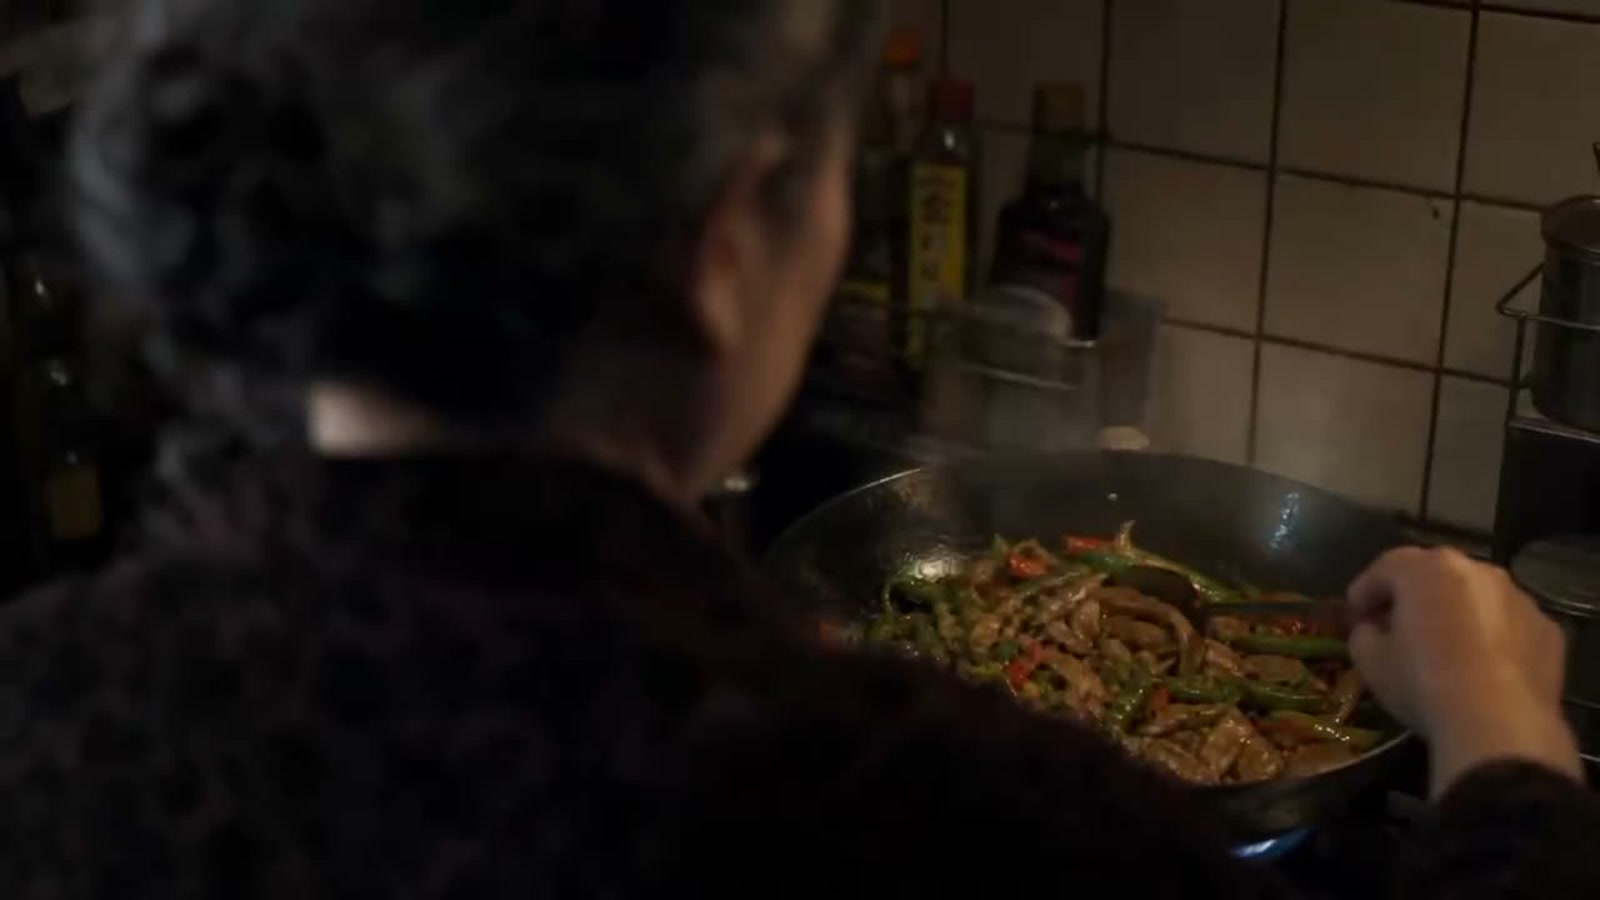
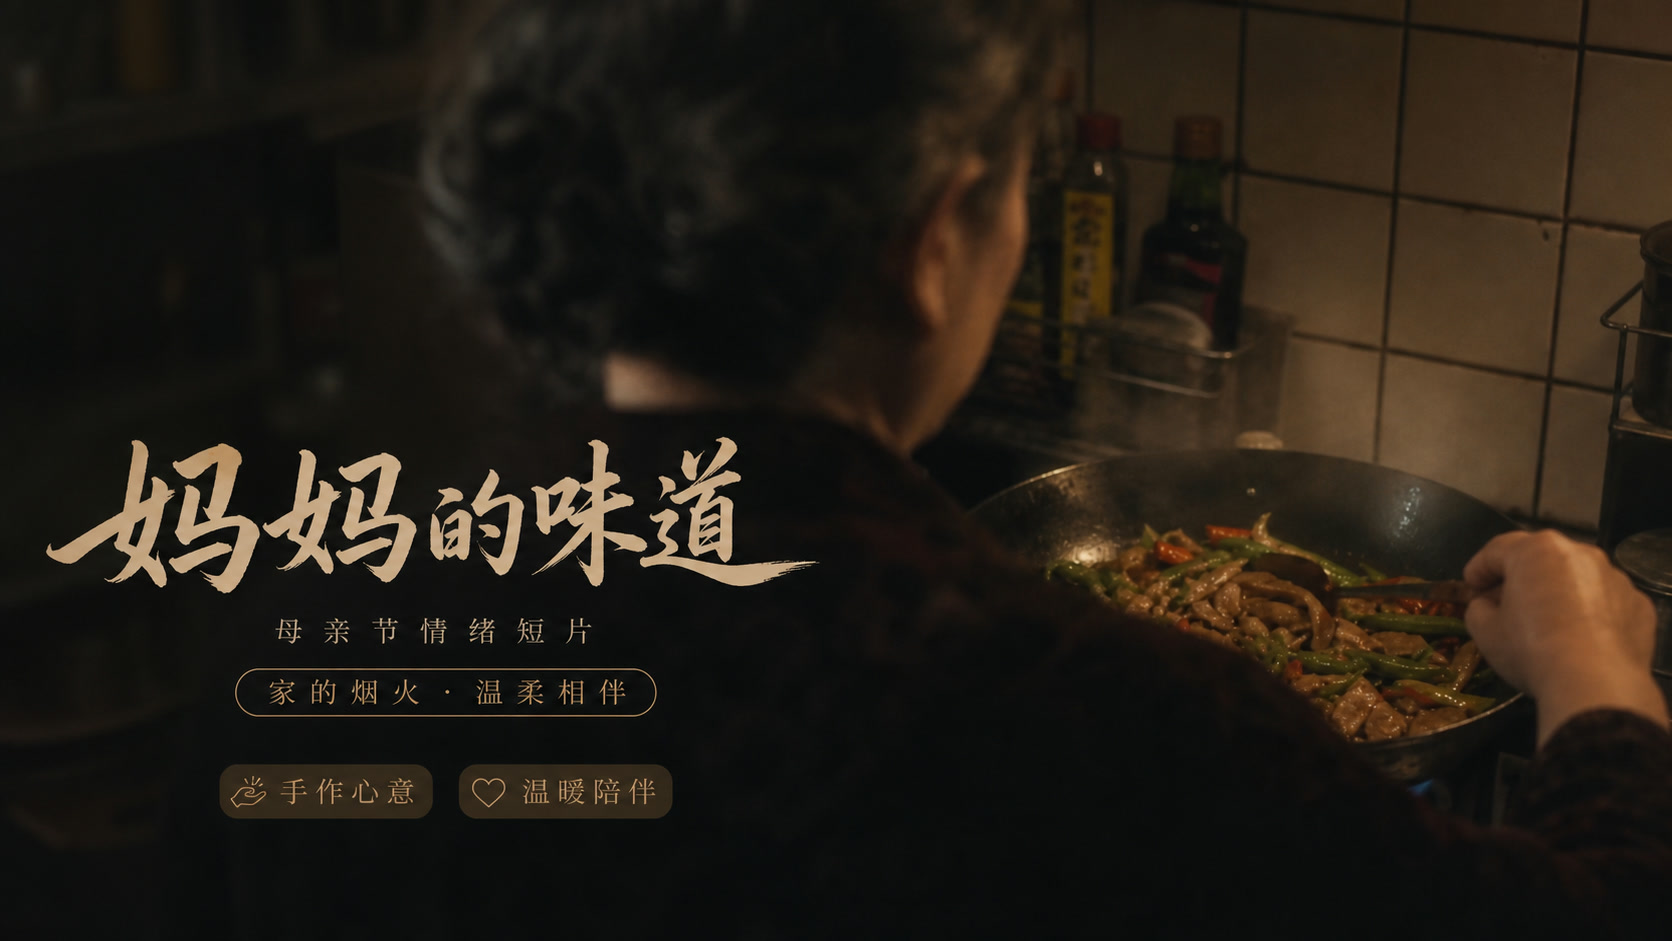
Update Mother Day and campus video covers

diff --git a/projects.js b/projects.js
@@ -12,6 +12,6 @@ const projects = [
   { title: "AI 骑行智能眼镜概念片", category: "AIGC", year: "2026", duration: "00:52", cover: "covers/ai-cycling-glasses.jpg?v=20260720-cycling3", src: "videos/ai-cycling-glasses.mp4", problem: "骑行智能设备的使用价值，需要在真实运动节奏里被迅速感知。", deliverable: "AIGC 智能硬件概念片 / 场景叙事 / 交互视觉设计", description: "以落日独骑为主线，将路径指引、道路提示、语音陪伴与分享互动融入骑行过程；通过界面动效让抽象的 AI 功能成为可代入的出行体验。" },
   { title: "Rich Luck 商厨品牌片", category: "AIGC", year: "2026", duration: "00:37", cover: "covers/richluck-brand-film.jpg?v=20260720-richluck3", src: "videos/richluck-brand-film.mp4", problem: "商厨品牌需要在很短时间内同时建立制造规模、技术能力与售后信任。", deliverable: "AIGC 品牌片 / 工厂与展厅展示 / 工程服务场景", description: "从品牌出镜、商厨展厅、智能烤炉，到 CAD 设计、产线巡检和客服响应，搭建“设计—制造—质检—服务”的信任链，强化专业商厨设备品牌形象。" },
   { title: "抓娃娃店活动短片", category: "实拍", year: "2026", duration: "00:26", cover: "covers/claw-machine-store-film.jpg?v=20260720-claw4", src: "videos/claw-machine-store-film.mp4", problem: "门店的人气与互动乐趣，需要被浓缩成让路人立刻想参与的短内容。", deliverable: "门店活动短片 / 探店内容 / 社媒传播素材", description: "由主持人在汇嘉时代购物中心二楼开场，跟随抓取动作、玩偶特写与顾客欢呼，快速建立“人气打卡、现场互动”的抓娃娃店体验。" },
-  { title: "母亲节情绪氛围短片", category: "AIGC", year: "2026", duration: "00:44", cover: "covers/home-cooking-story.jpg?v=20260720-add4", src: "videos/home-cooking-story.mp4", problem: "母亲节内容容易停在口号，需要用日常细节让情感自然发生。", deliverable: "AIGC 叙事短片 / 节日传播内容 / 家庭情感场景", description: "从母亲备菜、看手机等待、厨房烹饪与摆盘，到家人围桌共餐，以克制的生活片段完成情绪递进，让节日表达回到一顿饭和一次陪伴。" },
-  { title: "AI 校园宣传片", category: "AIGC", year: "2026", duration: "01:33", cover: "covers/spring-campus-film.jpg?v=20260720-add4", src: "videos/spring-campus-film.mp4", problem: "校园宣传不能只展示建筑，需要把生态、学习、科研与项目气质连成统一认知。", deliverable: "AIGC 校园品牌片 / 科研与教学场景 / 招生传播素材", description: "从春日水景、植物与校园航拍，延伸到学生骑行、实验室研究、建筑空间和课堂研讨，最终落到南科大科创 MBA 的创新教育叙事。" },
+  { title: "母亲节情绪氛围短片", category: "AIGC", year: "2026", duration: "00:44", cover: "covers/home-cooking-story.jpg?v=20260721-mother-cover", src: "videos/home-cooking-story.mp4", problem: "母亲节内容容易停在口号，需要用日常细节让情感自然发生。", deliverable: "AIGC 叙事短片 / 节日传播内容 / 家庭情感场景", description: "从母亲备菜、看手机等待、厨房烹饪与摆盘，到家人围桌共餐，以克制的生活片段完成情绪递进，让节日表达回到一顿饭和一次陪伴。" },
+  { title: "AI 校园宣传片", category: "AIGC", year: "2026", duration: "01:33", cover: "covers/spring-campus-film.jpg?v=20260721-campus-cover", src: "videos/spring-campus-film.mp4", problem: "校园宣传不能只展示建筑，需要把生态、学习、科研与项目气质连成统一认知。", deliverable: "AIGC 校园品牌片 / 科研与教学场景 / 招生传播素材", description: "从春日水景、植物与校园航拍，延伸到学生骑行、实验室研究、建筑空间和课堂研讨，最终落到南科大科创 MBA 的创新教育叙事。" },
 ];